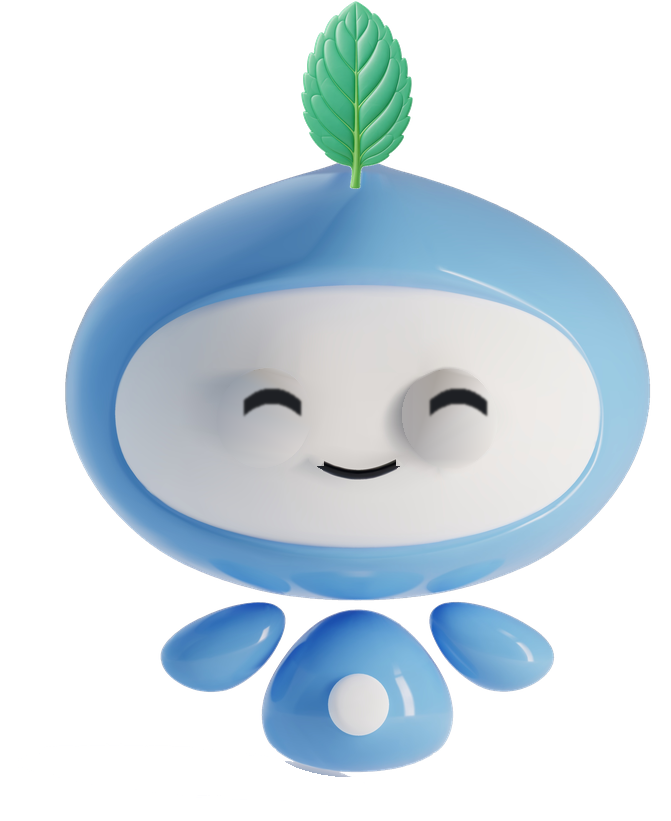
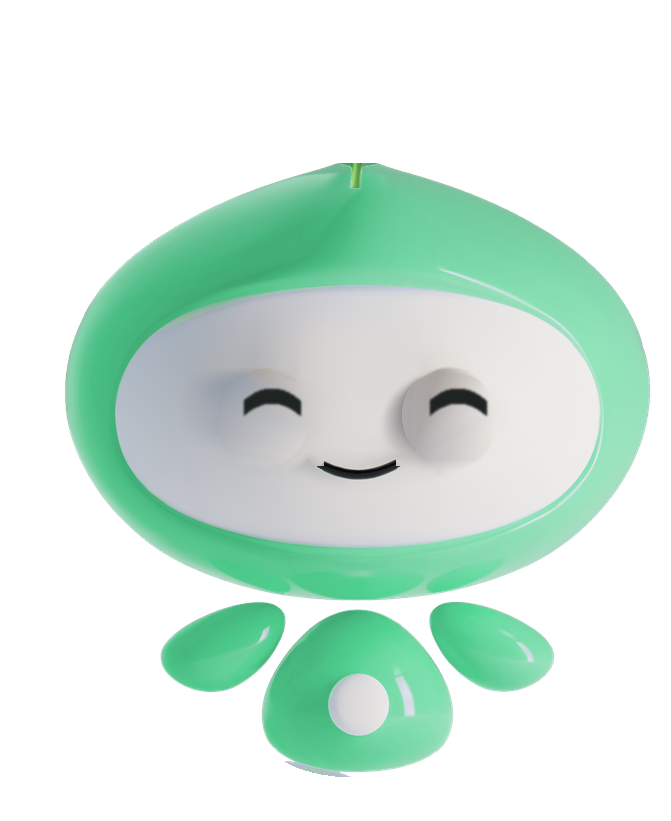
Đổi Mint bot sang xanh lá và cho lá lắc. (#3)
Thân robot thành xanh mint. Lá có cuống dài hơn và lắc sau mỗi lần chớp mắt.

Changed region(s): [[0.0894, 0.0, 0.9836, 0.944]]

diff --git a/css/styles.css b/css/styles.css
@@ -783,17 +783,49 @@ h3 {
 .reach__bot-blink {
   position: absolute;
   inset: 0;
+  z-index: 1;
   opacity: 0;
-  animation: mint-blink 5.6s infinite;
+  animation: mint-blink 7.2s linear infinite;
+}
+
+.reach__bot-leaf {
+  position: absolute;
+  inset: 0;
+  z-index: 2;
+  transform-origin: 53.06% 19.85%;
+  animation: mint-sway 7.2s ease-in-out infinite;
+  pointer-events: none;
 }
 
 @keyframes mint-blink {
-  0%, 68%, 71.4%, 74.6%, 78%, 100% {
+  0%, 8%, 100% {
     opacity: 0;
   }
 
-  69.7%, 76.3% {
+  3.4% {
     opacity: 1;
+  }
+}
+
+@keyframes mint-sway {
+  0%, 18%, 100% {
+    transform: rotate(0deg);
+  }
+
+  28% {
+    transform: rotate(-11deg);
+  }
+
+  38% {
+    transform: rotate(11deg);
+  }
+
+  48% {
+    transform: rotate(-6deg);
+  }
+
+  58% {
+    transform: rotate(0deg);
   }
 }
 
@@ -1412,6 +1444,7 @@ h3 {
 @media (prefers-reduced-motion: reduce) {
   .reach__bot,
   .reach__bot-blink,
+  .reach__bot-leaf,
   .reach__mid,
   .contact-band,
   .mint-bot,

diff --git a/index.html b/index.html
@@ -198,8 +198,9 @@
           <div class="reach__mid">
             <button class="reach__bot" type="button" aria-expanded="false" aria-controls="mint-bot">
               <span class="reach__bot-face">
-                <img src="img/mint-bot.png?v=leaf2" alt="">
-                <img class="reach__bot-blink" src="img/mint-bot-blink.png?v=leaf2" alt="">
+                <img src="img/mint-bot.png?v=mint" alt="">
+                <img class="reach__bot-blink" src="img/mint-bot-blink.png?v=mint" alt="">
+                <img class="reach__bot-leaf" src="img/mint-bot-leaf.png?v=mint" alt="">
               </span>
               <span class="sr-only">Mở Mint bot</span>
             </button>

diff --git a/PROJECT.md b/PROJECT.md
@@ -23,7 +23,7 @@ Mở http://127.0.0.1:5500/
 - `js/bot.js` — Mint bot. Sheet hỏi đáp cố định: dòng 2 là prompt và các cột thông tin (chung, đối tượng học viên), dòng 4–10 là lịch tập, từ dòng 13 trở xuống là hỏi đáp.
 - `bot/Code.gs` — Apps Script gọi `gemini-3.1-flash-lite`. Hai khóa `GEMINI_API_KEY_1` và `GEMINI_API_KEY_2` xoay tua trong Script properties, không đưa vào repo.
 - `img/logo-mint.png`, `img/logo-white.png` — logo phòng tập, cắt từ thư mục `Logo`
-- `img/mint-bot.png` — robot xanh, lá mint trên đầu thay búi tóc, nền trong suốt, nút giữa mục liên lạc
+- `img/mint-bot.png` — robot xanh lá mint, lá có cuống ở trên đầu, lắc sau mỗi lần chớp mắt, nền trong suốt, nút giữa mục liên lạc
 - `img/favicon.png` — icon tab
 
 ## Quyết định
